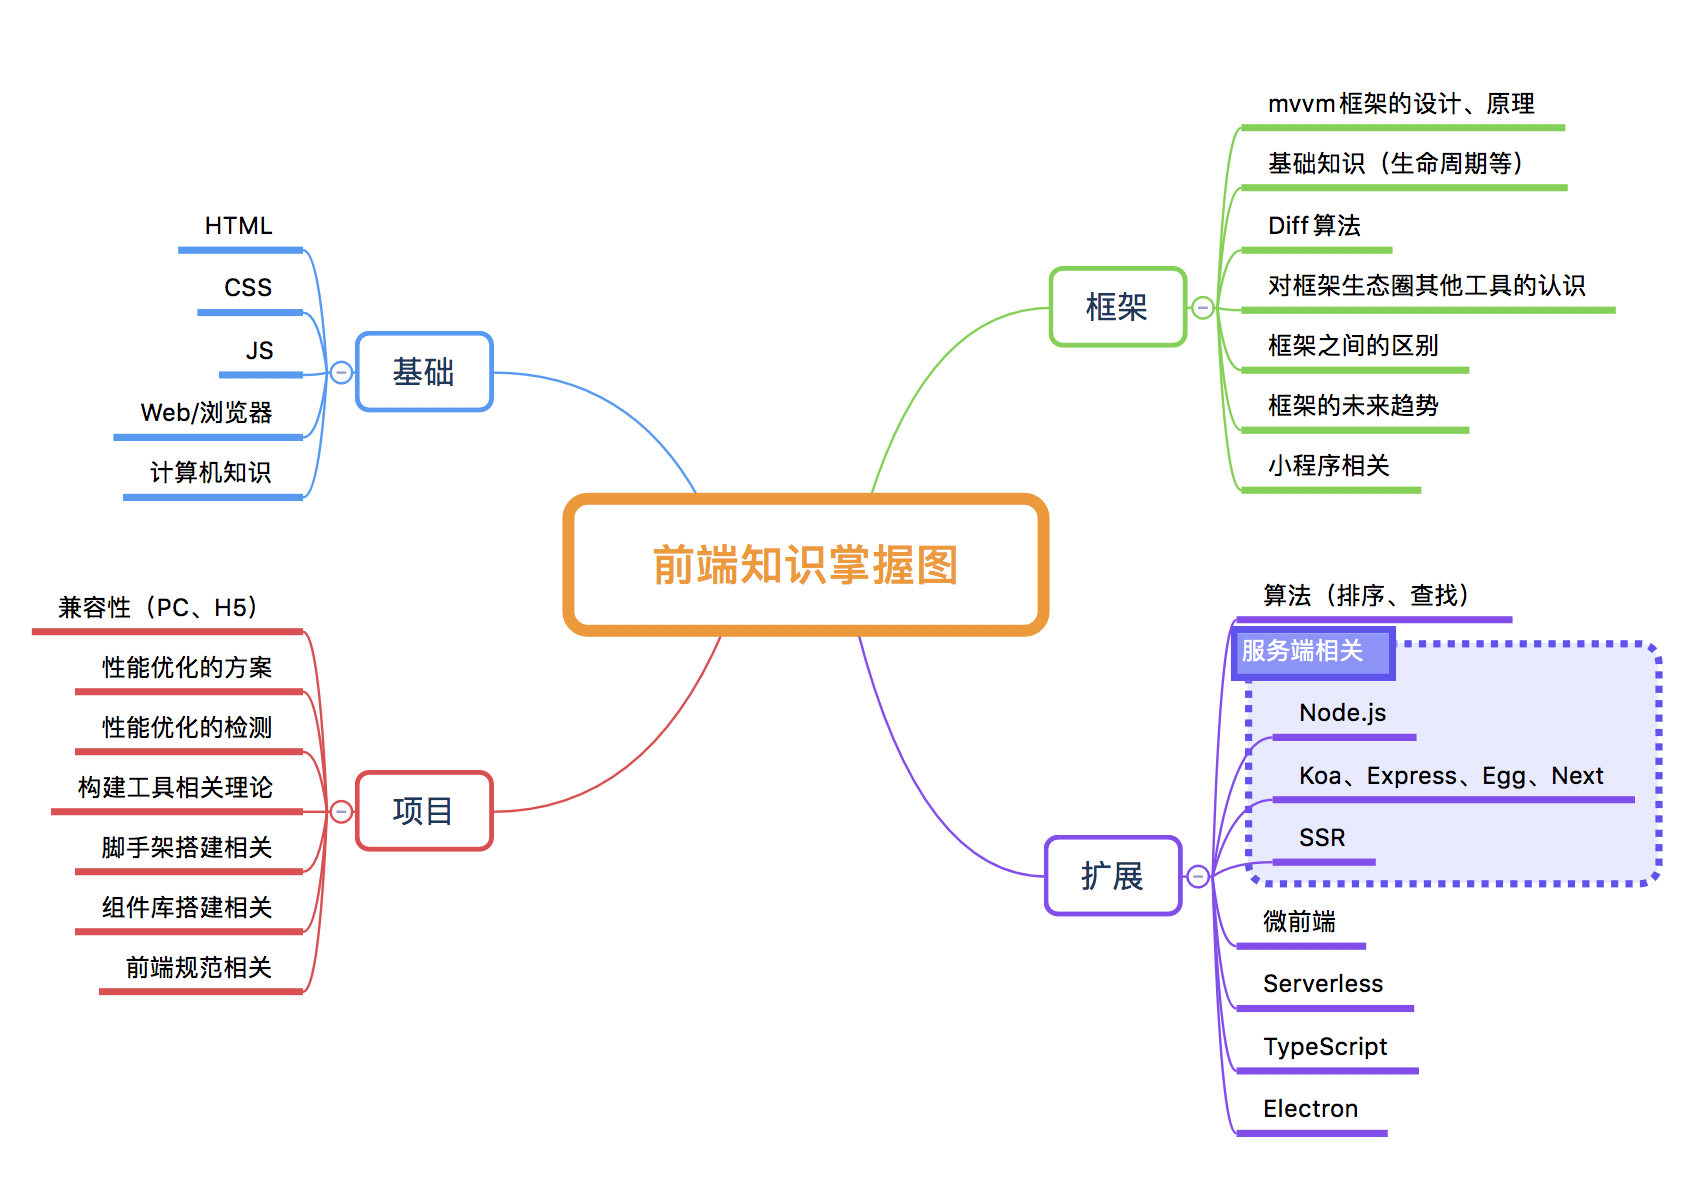
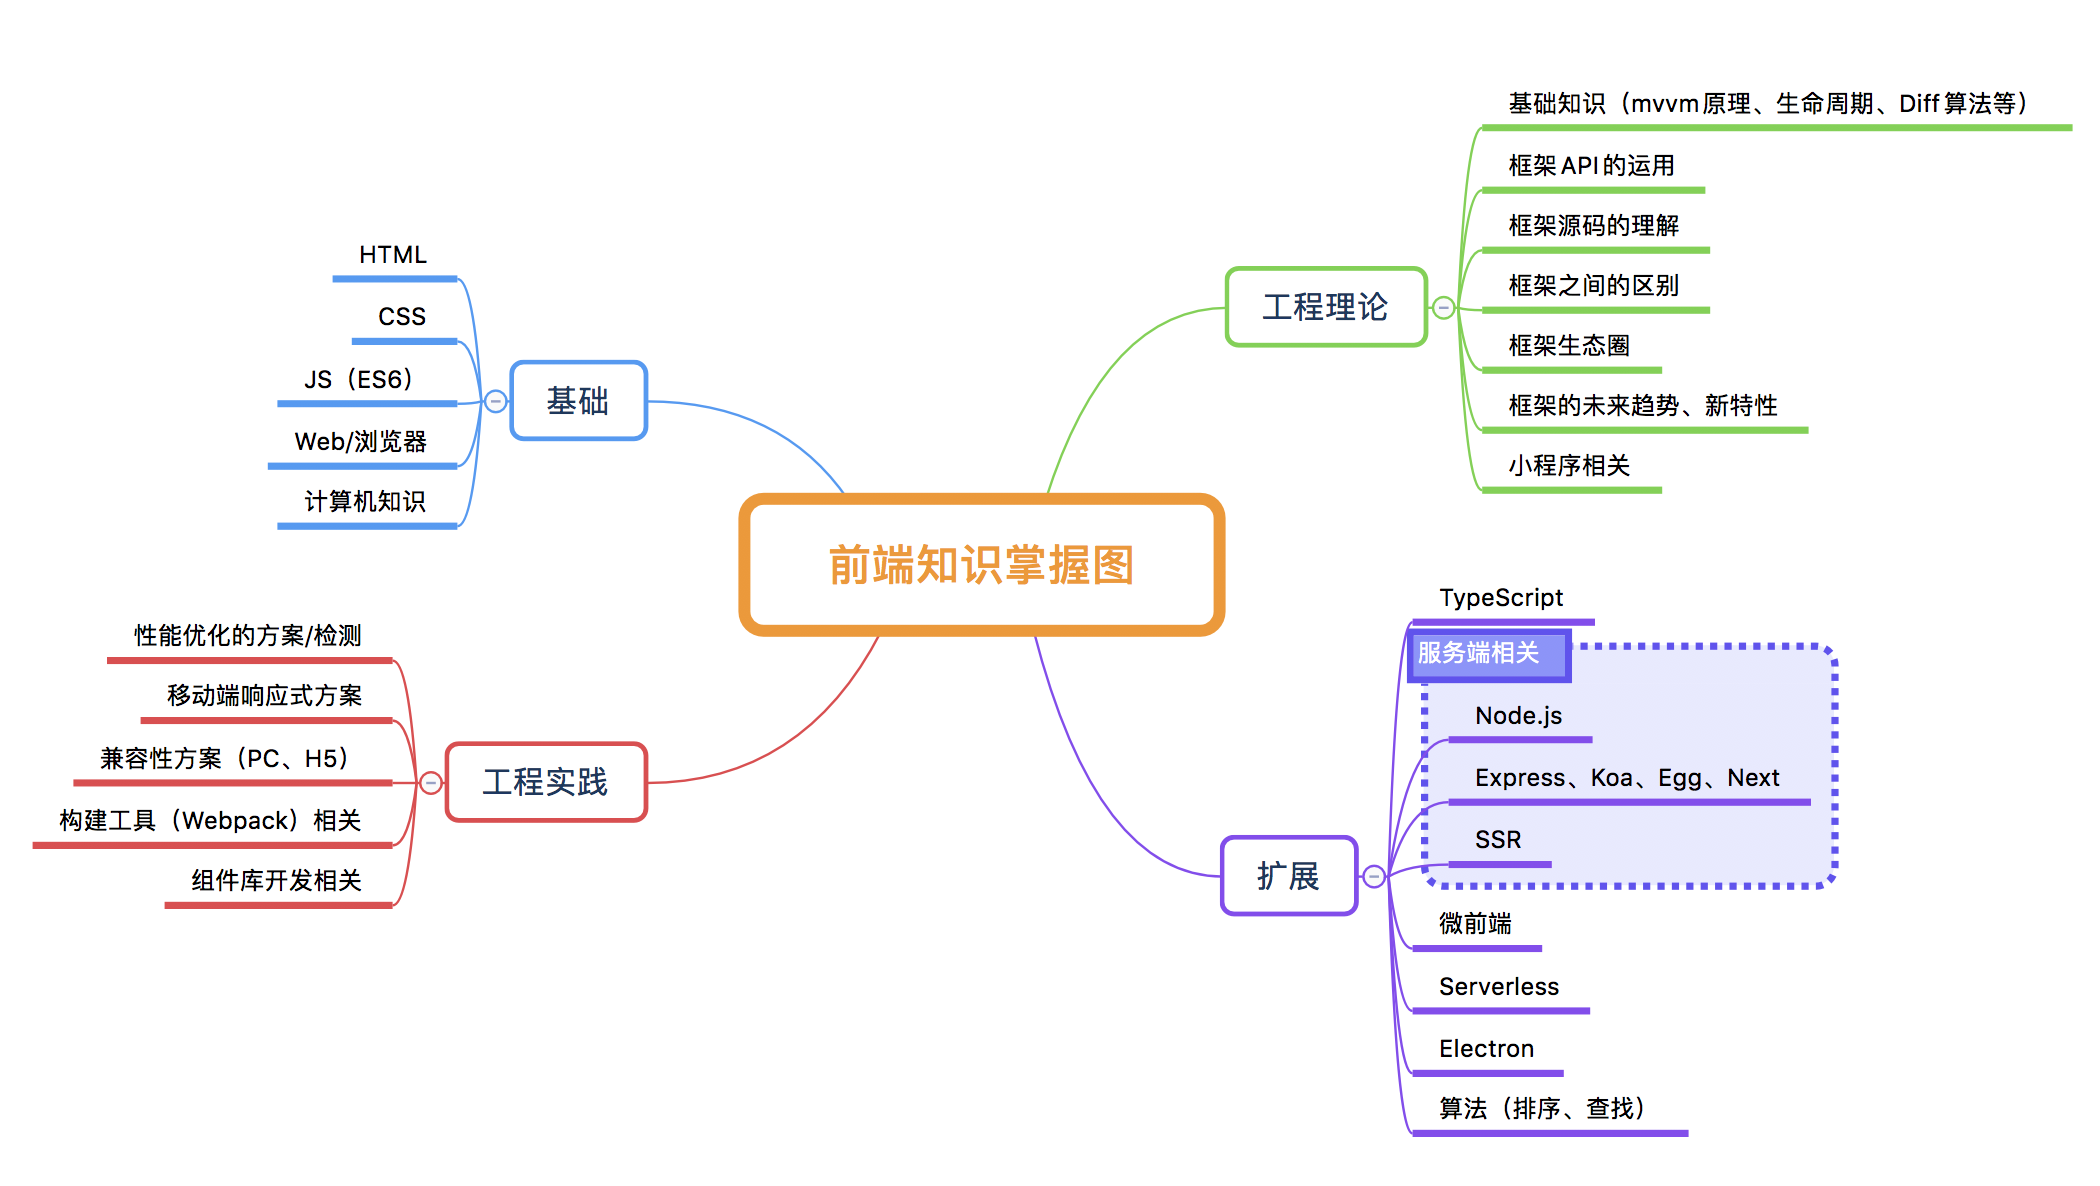
update: FE.png

diff --git a/docs/overview/README.md b/docs/overview/README.md
@@ -25,7 +25,7 @@ sidebarDepth: 2
 <Badge text="框架" type="warning"/>
 :::
 
-#### 前端知识掌握图（2020-04-18）
+#### 前端知识掌握图（2020-05-04）
 ![alt](./img/FE.png)
 
 <!-- 
